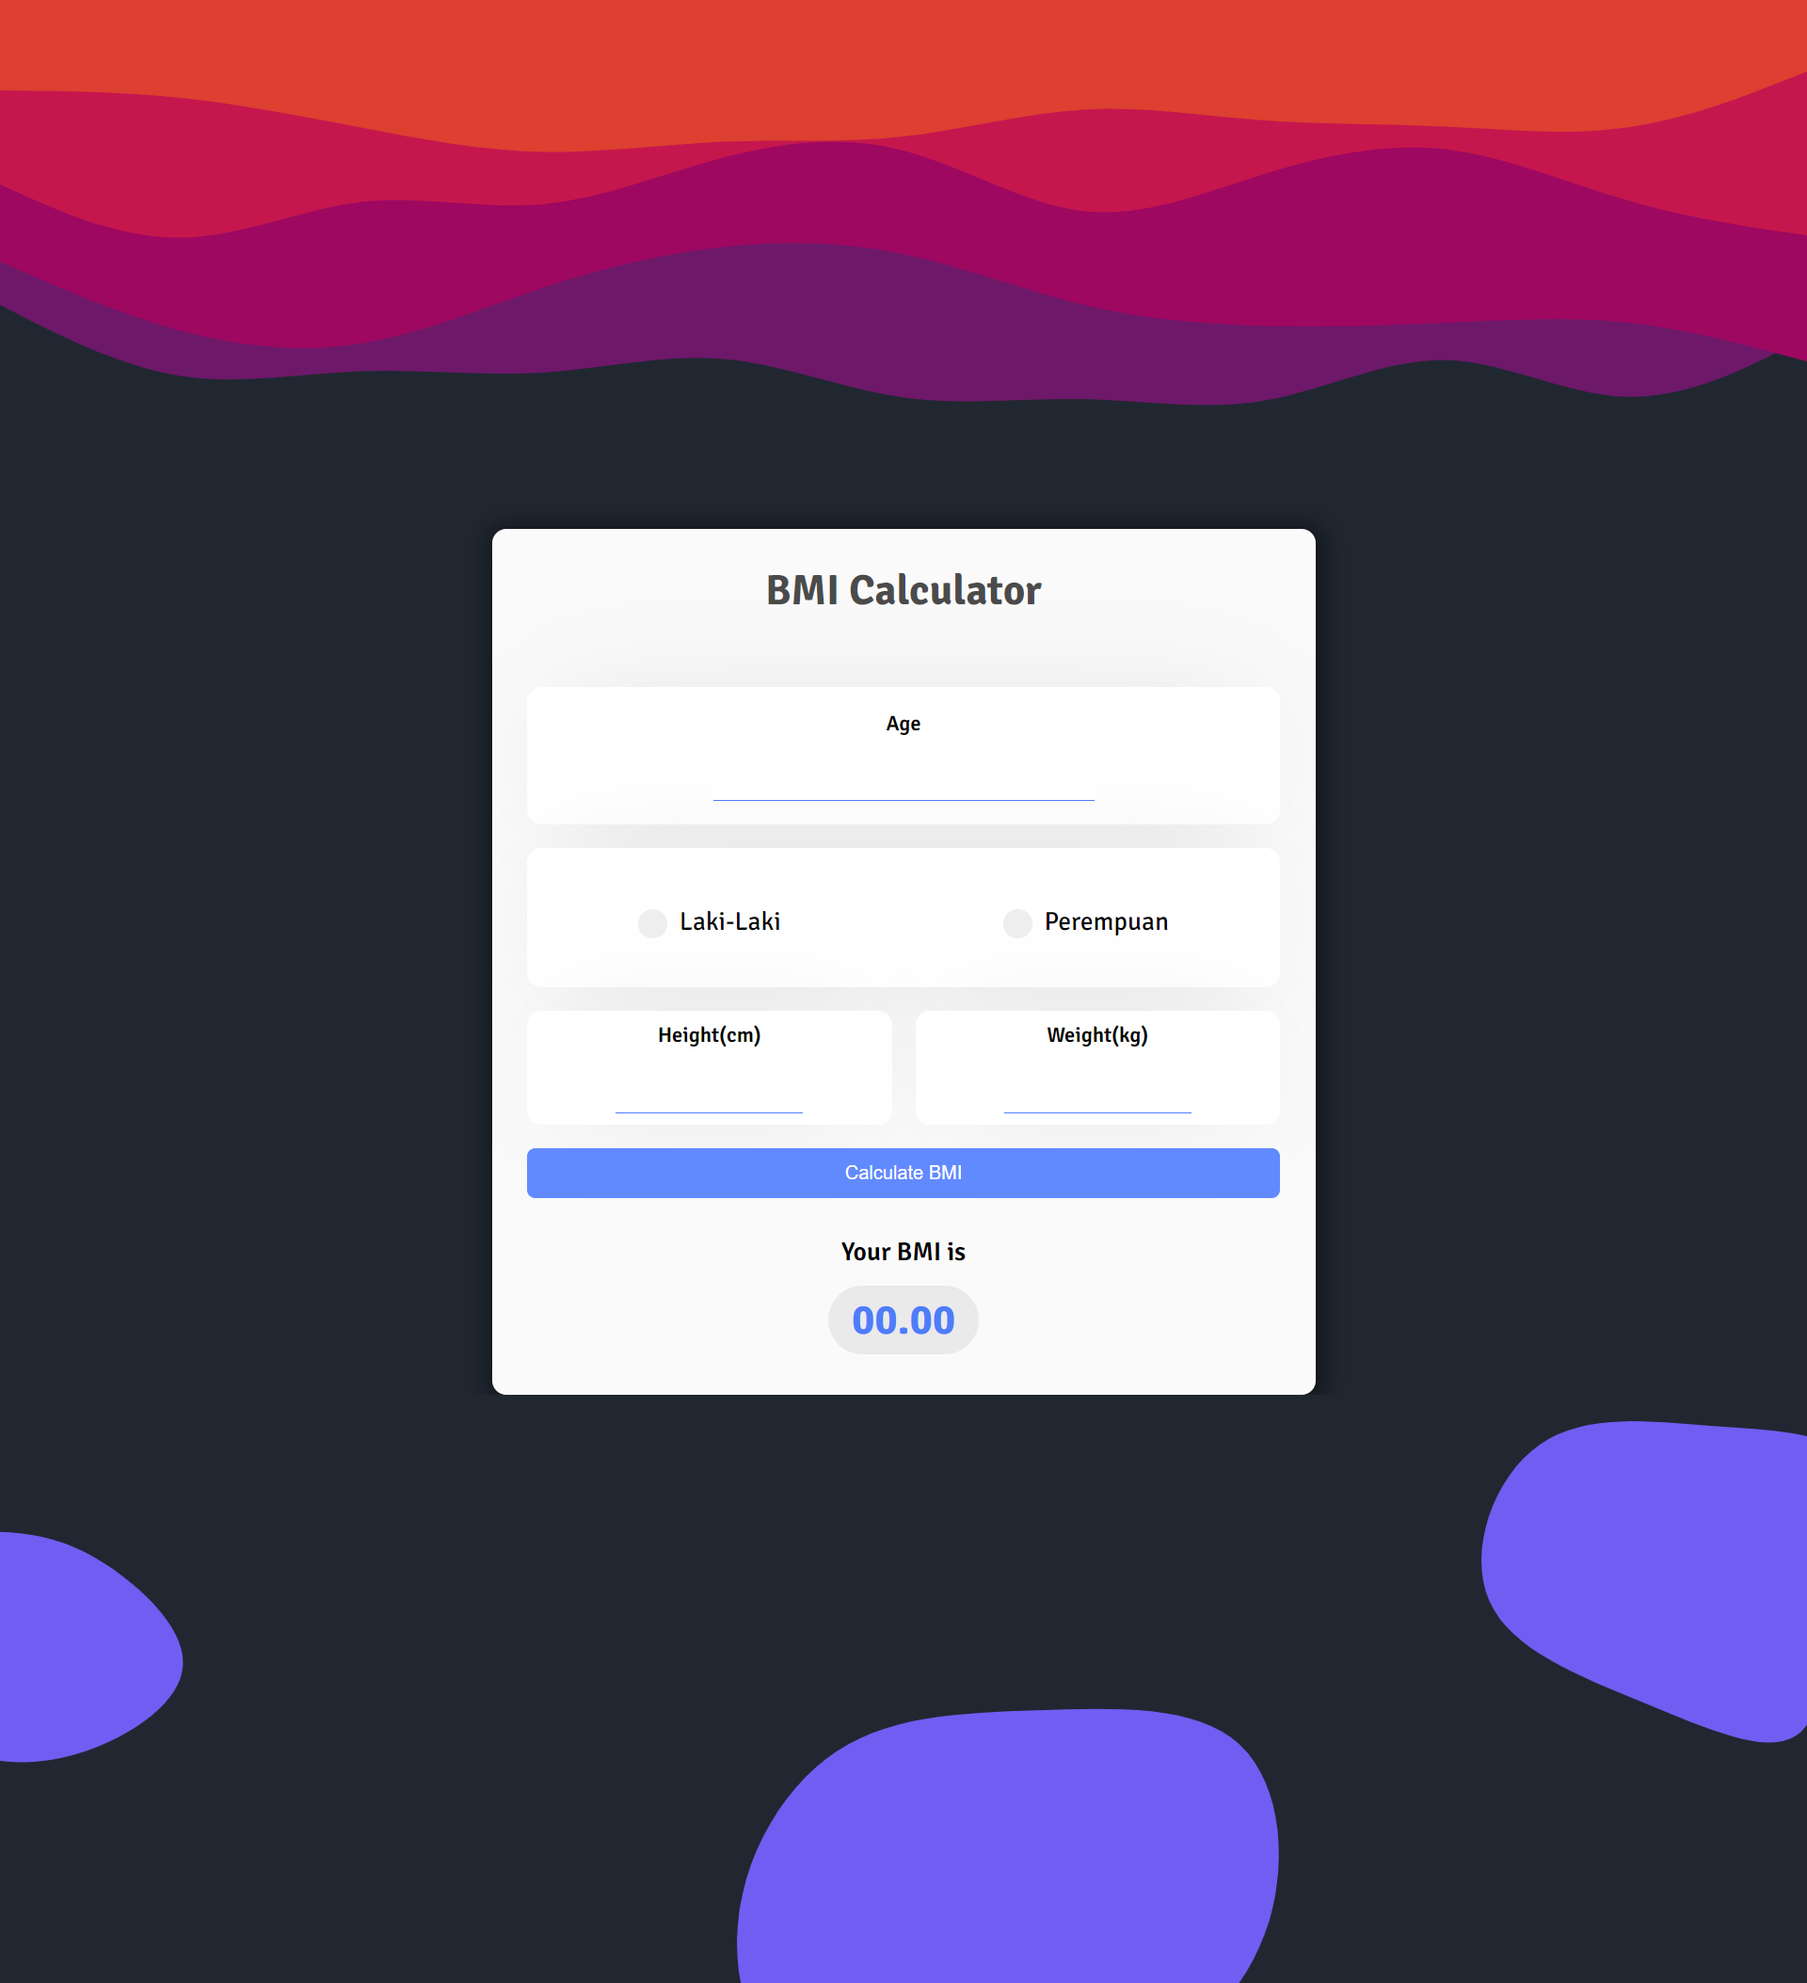
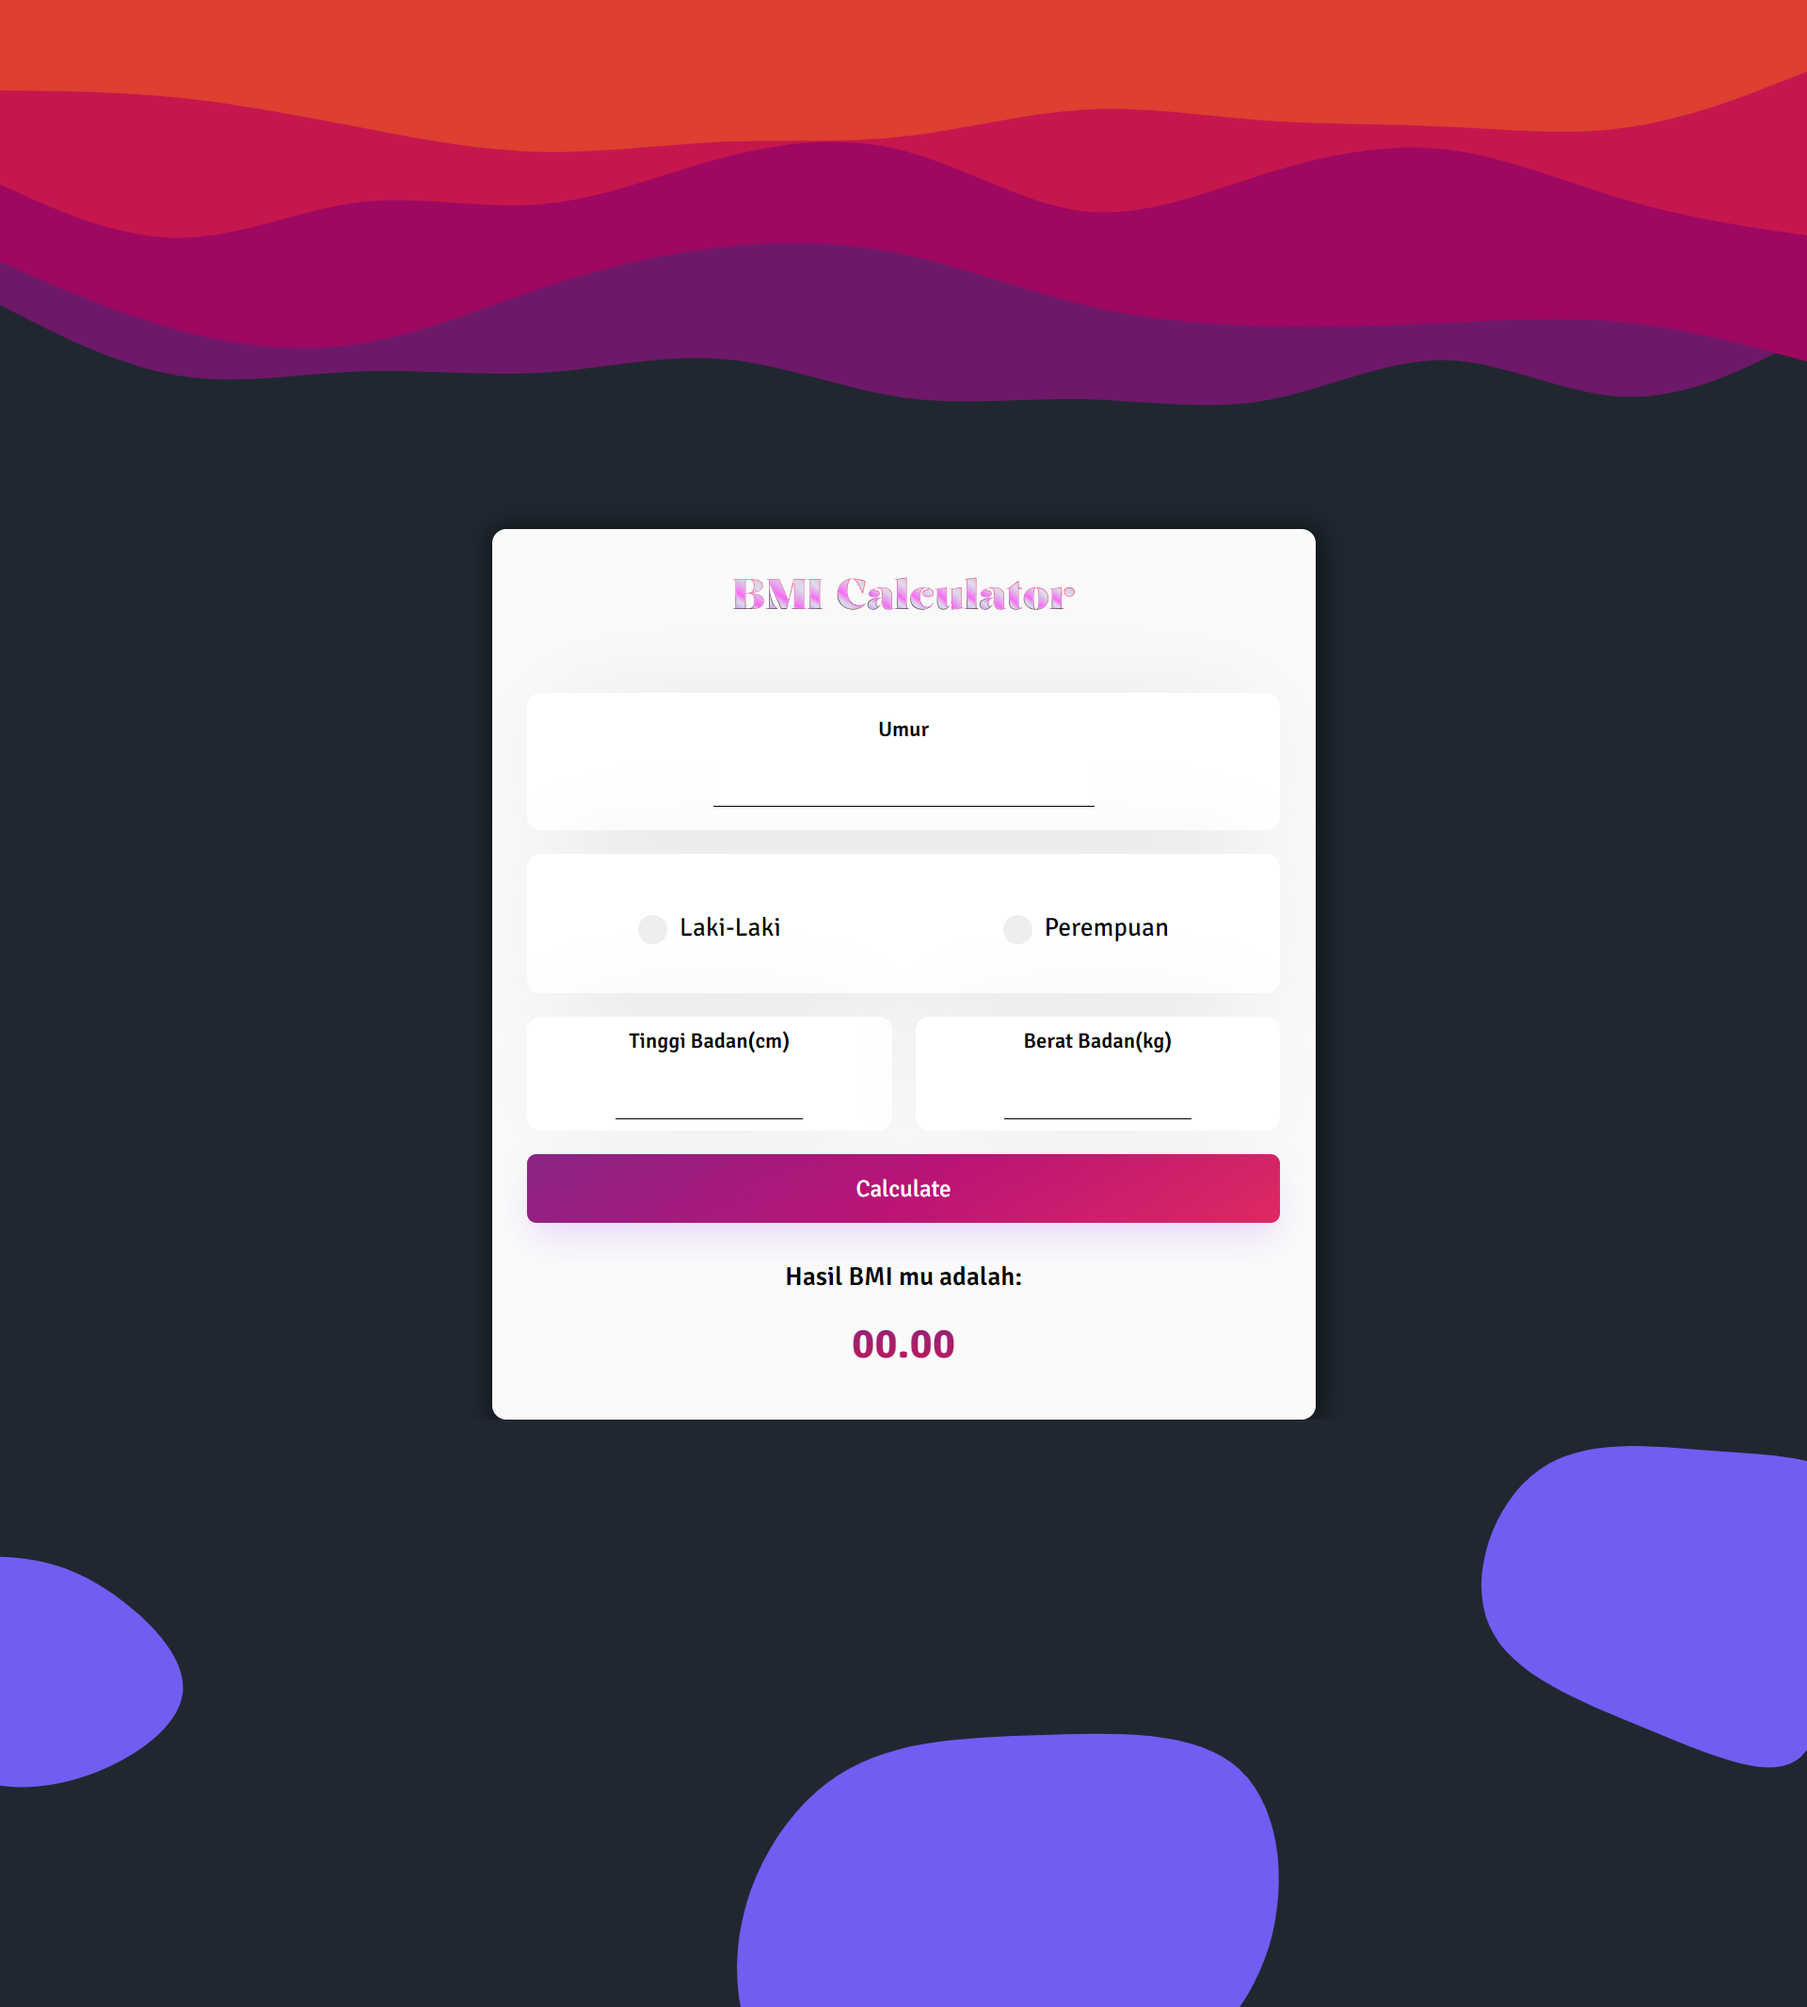
design button form and form

diff --git a/css/style.css b/css/style.css
@@ -57,19 +57,21 @@
     background: #fafafa;
     border-radius: 12px;
     text-align: center;
-    box-shadow: 2px 2px 20px 5px rgba(0,0,0,0.5);
+    box-shadow: 2px 2px 20px 5px rgba(0, 0, 0, 0.5);
     margin-top: -10rem;
 
   }
 
 
   h1 {
-    color: rgb(0, 0, 0, 0.7);
+    color: rgba(255, 0, 0, 0.7);
     font-weight: bold;
     font-size: 36px;
     padding: 30px 0;
-    
+    font-family: "Kalnia Glaze", serif;
+    letter-spacing: px;
   }
+  
 /* ----------- */
     .content {
         padding: 0 30px;
@@ -91,7 +93,7 @@
     }.input input {
         outline: none;
         border: none;
-        border-bottom: 1px solid #4f7df9;
+        border-bottom: 1px solid #000000;
         width: 50%;
         text-align: center;
         font-size: 28px;
@@ -111,7 +113,7 @@
     }.inputW input {
         outline: none;
         border: none;
-        border-bottom: 1px solid #4f7df9;
+        border-bottom: 1px solid #000000;
         width: 50%;
         text-align: center;
         font-size: 28px;
@@ -132,32 +134,51 @@
     }.inputH input {
         outline: none;
         border: none;
-        border-bottom: 1px solid #4f7df9;
+        border-bottom: 1px solid #000000;
         width: 50%;
         text-align: center;
         font-size: 28px;
-        font-family: "Nunito", sans-serif;
+       
     }
 
   /* ------ BUTTON ------ */
-  button.calculate {
-    cursor: pointer;
-    font-family: "Nunito", sans-serif;
-    color: #fff;
-    background: rgb(97,138,254,1);
-    font-size: 16px;
-    border-radius: 7px;
-    padding: 12px 0;
-    width: 100%;
-    outline: none;
-    border: none;
-    transition: all 0.5s;
-  }
+
   button.calculate:hover {
-    background: #0044ff;
+    background-image: linear-gradient(144deg,#9e0861, #c5174d 50%,#dd3f31);
+    border: 0;
+    transition: 2s ease all;
   }
 
+  button.calculate {
+    align-items: center;
+    background-image: linear-gradient(144deg,#8a2485, #ba1377 50%,#dd2962);
+    border: 0;
+    border-radius: 8px;
+    box-shadow: rgba(151, 65, 252, 0.2) 0 15px 30px -5px;
+    box-sizing: border-box;
+    color: #FFFFFF;
+    display: flex;
+    width: 100%;
+    font-size: 20px;
+    justify-content: center;
+    line-height: 1em;
+    max-width: 100%;
+    min-width: 140px;
+    padding: 19px 24px;
+    text-decoration: none;
+    user-select: none;
+    -webkit-user-select: none;
+    touch-action: manipulation;
+    white-space: nowrap;
+    cursor: pointer;
+    font-family: "Signika", sans-serif;
+    transition: 0.3s;
+  }
   
+  button.calculate:active{
+    outline: 0;
+    
+  }
   /* ------ RESULT ------ */
 .result {
     padding: 10px 20px;
@@ -165,18 +186,21 @@
   .result p {
     font-weight: 600;
     font-size: 22px;
-    color: #000;
+    color:-webkit-linear-gradient(#eee, #333);
     margin-bottom: 15px;
   }
   .result #result {
     font-size: 36px;
     font-weight: 900;
-    color: #4f7df9;
     background-color: #eaeaea;
     display: inline-block;
     padding: 7px 20px;
     border-radius: 55px;
     margin-bottom: 25px;
+
+    background: -webkit-linear-gradient(#8a2485, #c5174d);
+    background-clip: text;
+    -webkit-text-fill-color: transparent;
   }
   #comment {
     color: #4f7df9;
@@ -363,7 +387,5 @@ border: 2px solid red;
 
       width: 380px;
     }
-
-
 
 }

diff --git a/index.html b/index.html
@@ -9,6 +9,10 @@
     <link rel="preconnect" href="https://fonts.googleapis.com">
     <link rel="preconnect" href="https://fonts.gstatic.com" crossorigin>
     <link href="https://fonts.googleapis.com/css2?family=Signika:wght@300..700&display=swap" rel="stylesheet">
+
+    <link rel="preconnect" href="https://fonts.googleapis.com">
+    <link rel="preconnect" href="https://fonts.gstatic.com" crossorigin>
+    <link href="https://fonts.googleapis.com/css2?family=Kalnia+Glaze:wght@100..700&family=Signika:wght@300..700&display=swap" rel="stylesheet">  
     <!-- CDN JSDELIVR -->
     <script src="https://cdn.jsdelivr.net/npm/kute.js@2.1.2/dist/kute.min.js"></script>
 
@@ -26,7 +30,7 @@
 
 
             <div class="input">
-                <label for="height">Age</label>
+                <label for="height">Umur</label>
                 <input type="text" class="text-input" id="age" autocomplete="off" required/>
             </div>
 
@@ -41,26 +45,26 @@
                 <label class="container">
                     <input type="radio" name="radio" id="f" ><p class="text">Perempuan</p>
                       <span class="checkmark"></span>
-                    </label>
+                  </label>
 
             </div>
 
             <div class="containerHW">
             <div class="inputH">
-              <label for="height">Height(cm)</label>
+              <label for="height">Tinggi Badan(cm)</label>
               <input type="number" id="height" required>
             </div>
 
             <div class="inputW">
-              <label for="weight">Weight(kg)</label>
+              <label for="weight">Berat Badan(kg)</label>
               <input type="number" id="weight" required>
             </div>
           </div>
 
-            <button class="calculate" id="submit" onclick="calculate();">Calculate BMI</button>
+            <button class="calculate" id="submit" onclick="calculate();">Calculate</button>
           </div>
           <div class="result">
-            <p>Your BMI is</p>
+            <p>Hasil BMI mu adalah:</p>
             <div id="result">00.00</div>
             <p class="comment"></p>
           </div>
@@ -75,15 +79,13 @@
       <p id="modalText"></p>
     </div></div>
 
-
-
     </section>
 
 <!-- footer -->
  <footer>
     <section class="blobs">
       <div class="text-footer">
-
+        
       </div>
     </section>
 </footer>
